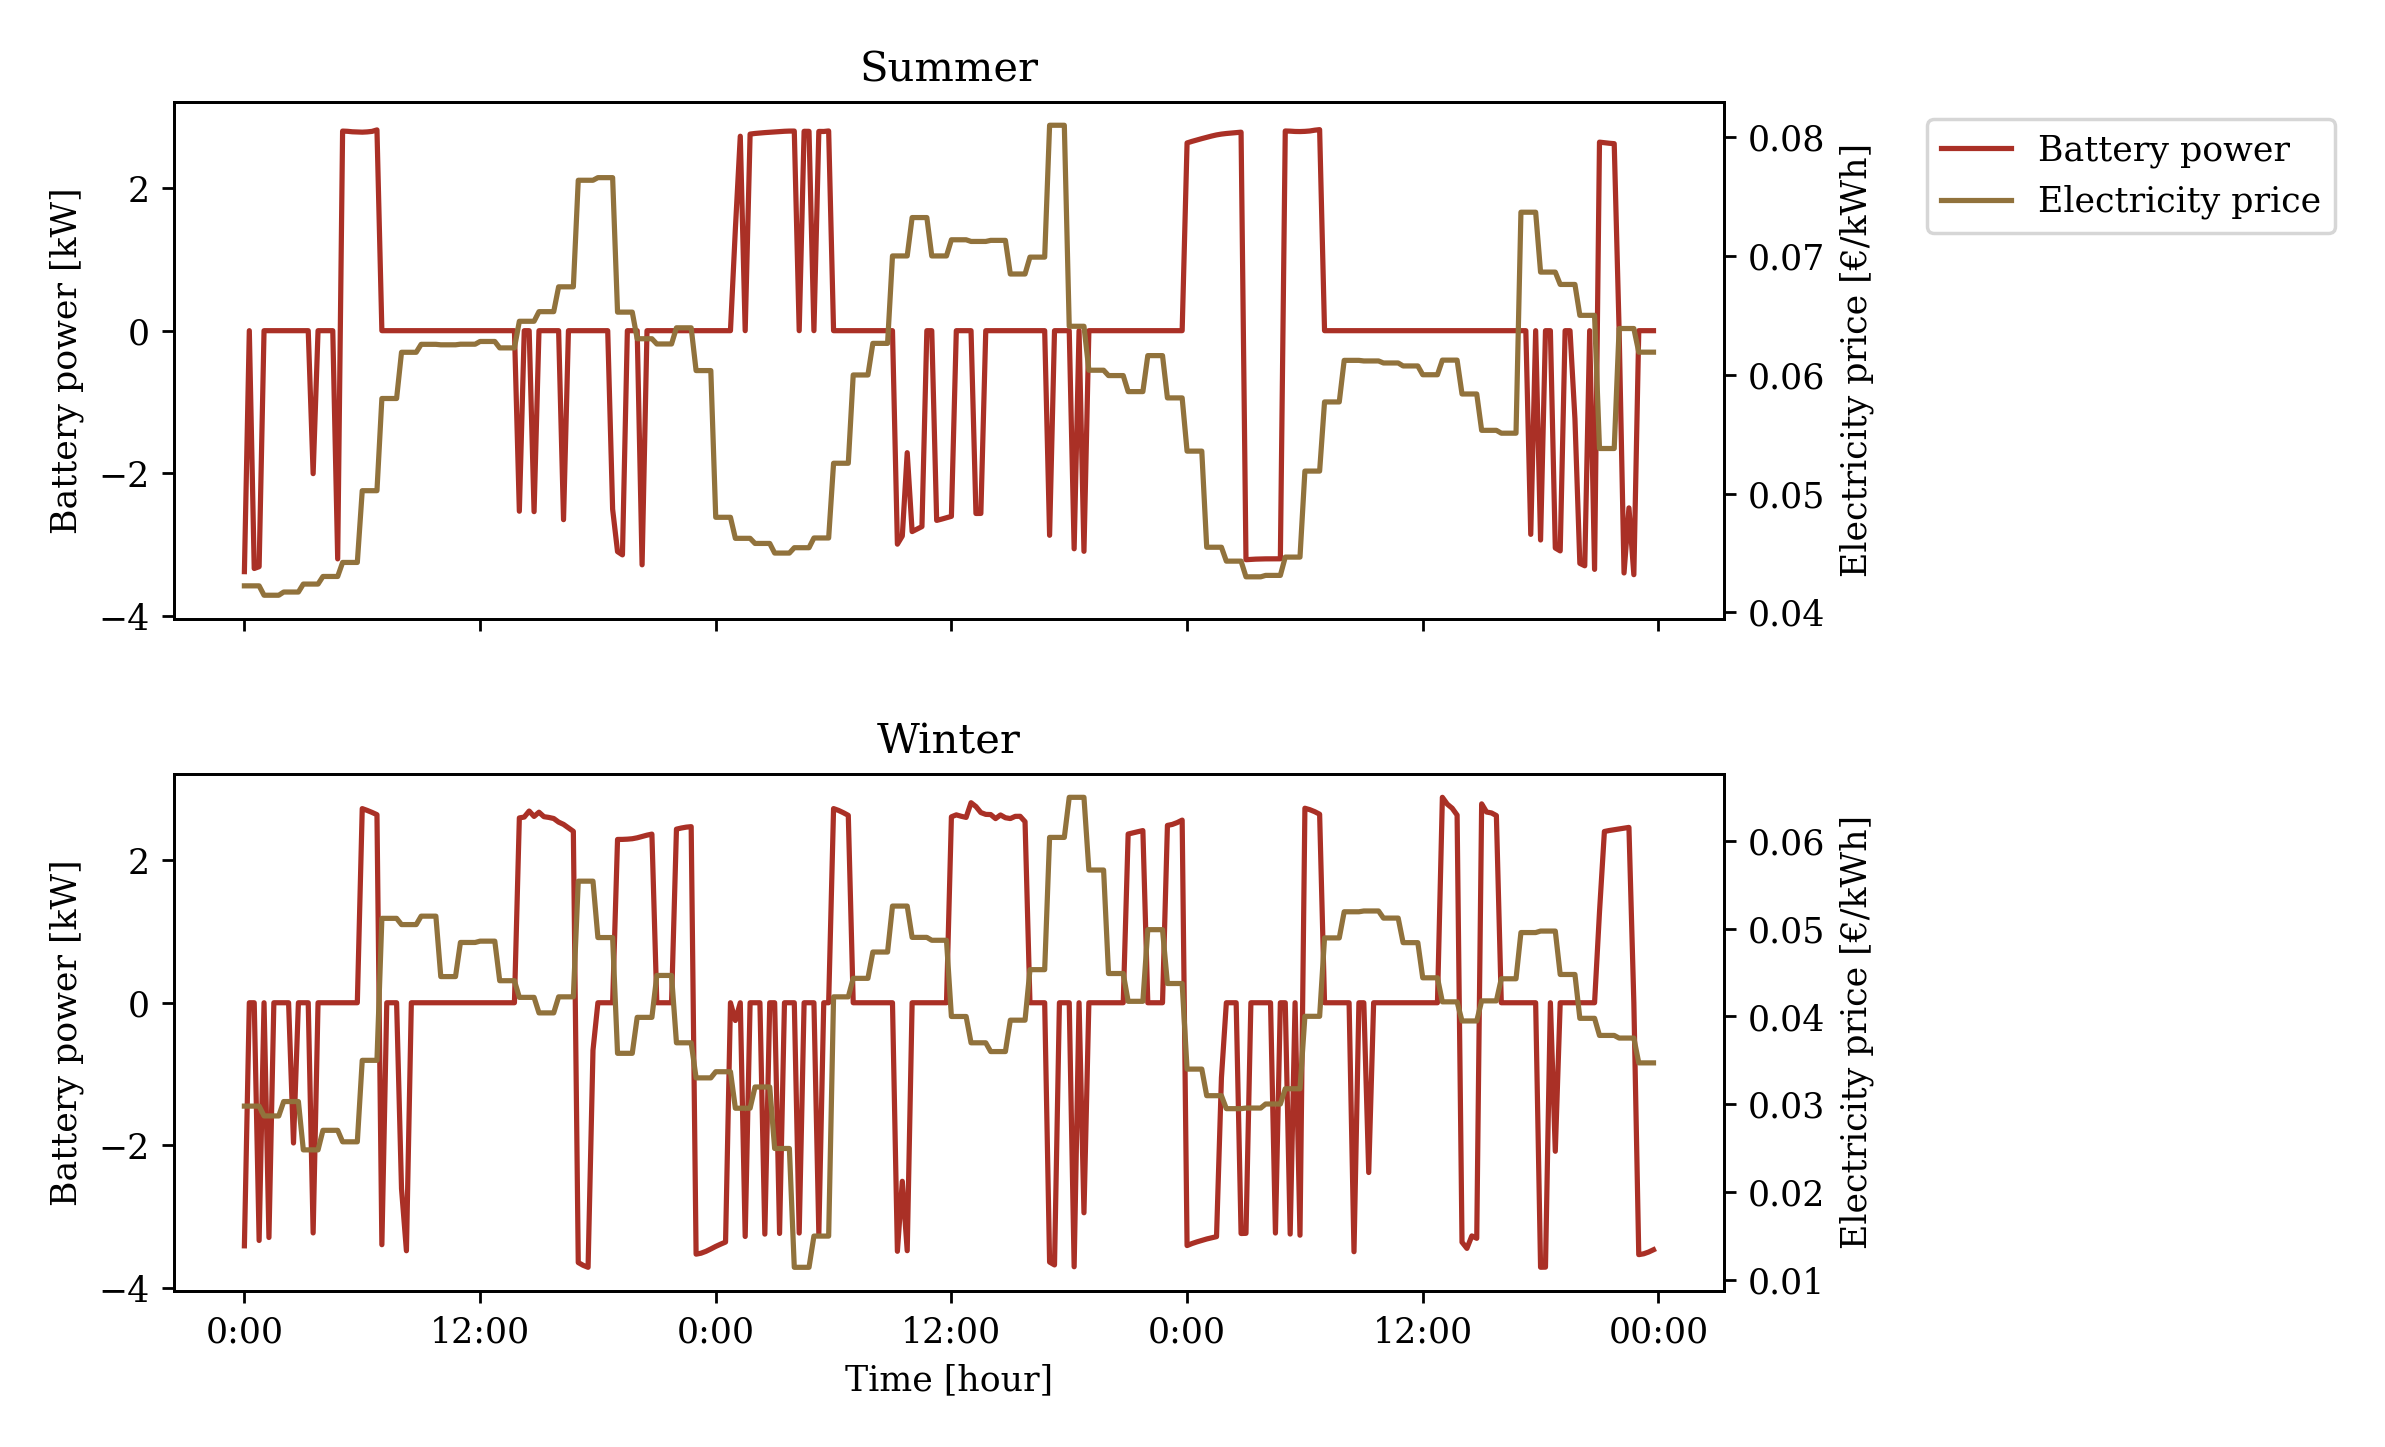
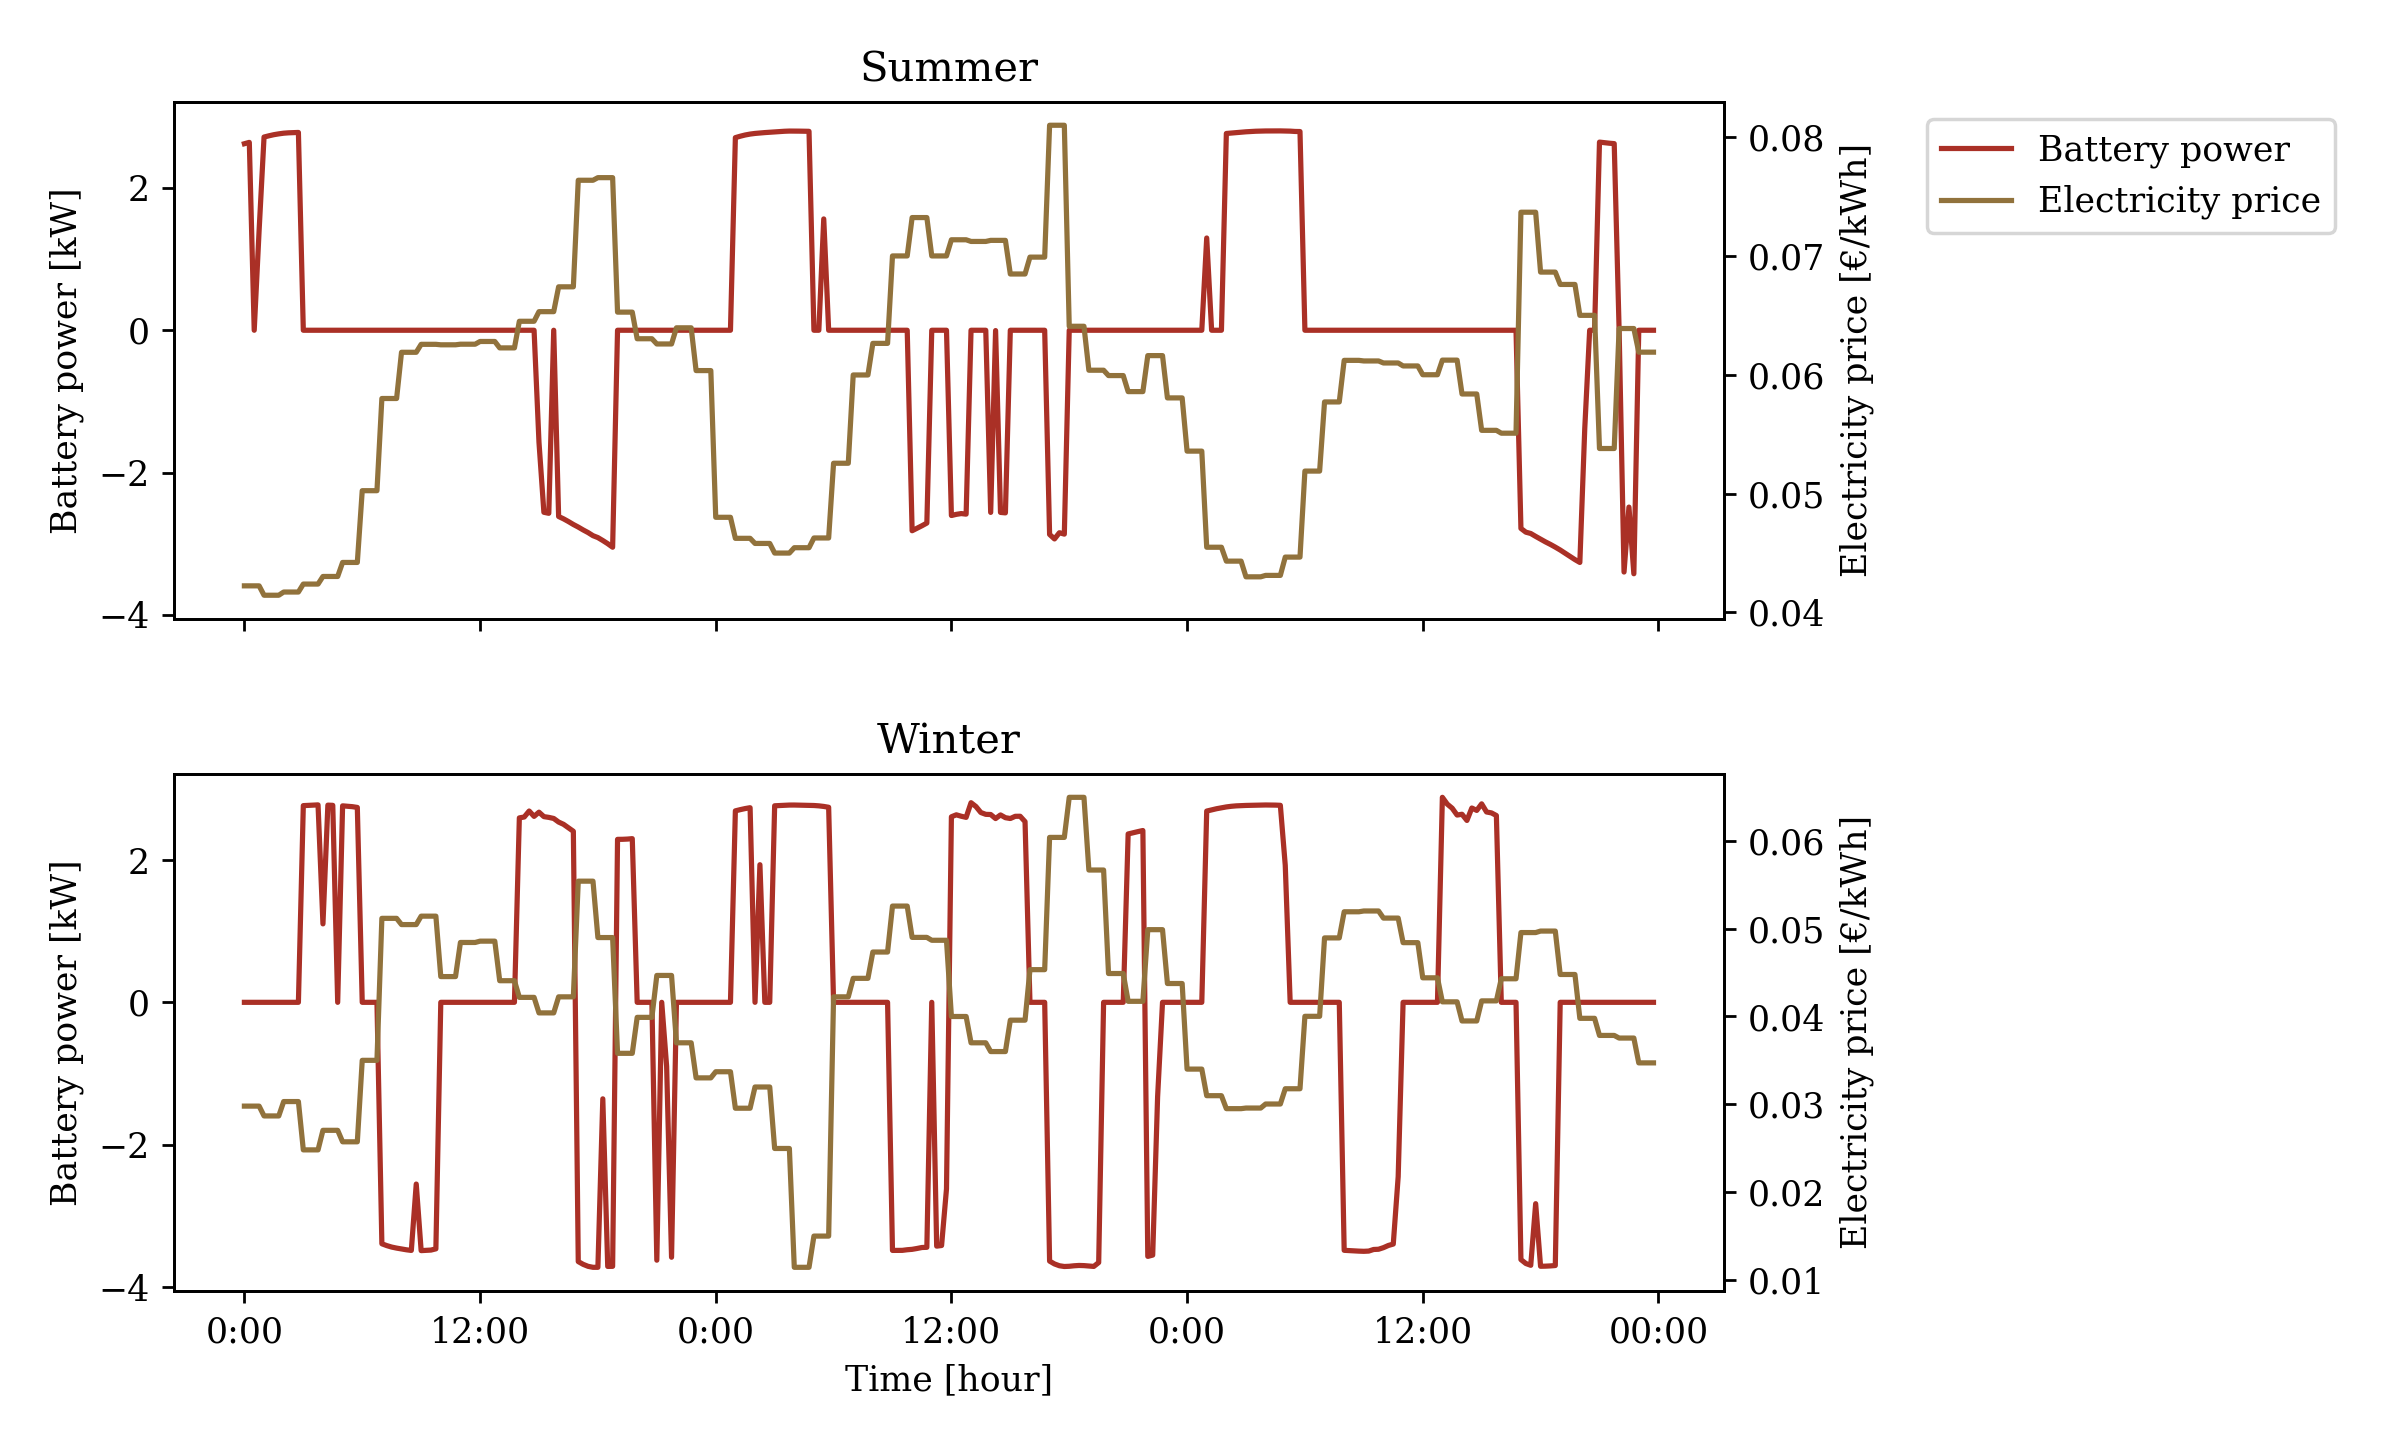
fix: Optimize for costs, not emissions in Q2

diff --git a/src/question2.py b/src/question2.py
@@ -30,7 +30,7 @@ seasons = ['Summer', 'Winter']
 results = {}
 for index, season in enumerate(seasons):
     # Create the Pareto frontier for both the line and scatter plot
-    result = mf.run(group, season, 'emissions')
+    result = mf.run(group, season)
 
     cost = (result.grid * result.price * 0.25).sum()
     print('Optimised cost for {} is €{:.2f}'.format(season.lower(), cost))
